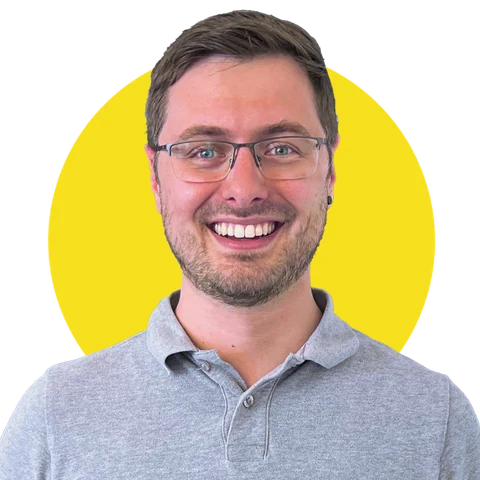
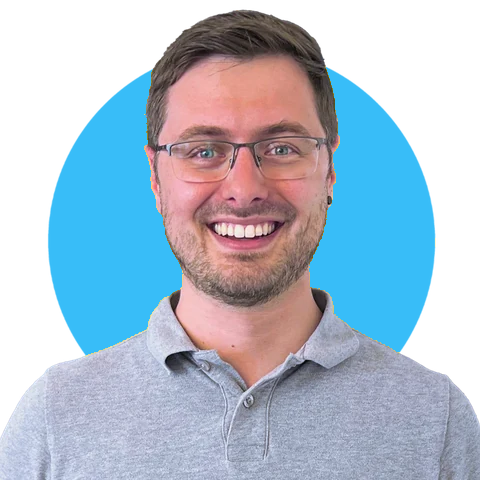
Replace yellow accent with blue across the site
Switch --color-accent from #F5C400 to the Digital/Brand secondary
blue (#38BDF8), recolor the avatar's circular backdrop to match, and
update STYLEGUIDE.md's "Applied on the website" section accordingly.

Claude-Session: https://claude.ai/code/session_011EiiaMf2K7Ezs9nBbS4To7

Changed region(s): [[0.0938, 0.125, 0.4062, 0.75], [0.625, 0.125, 0.9062, 0.75]]

diff --git a/styles.css b/styles.css
@@ -1,8 +1,9 @@
 /* Marcel Cremer — personal homepage
    Brand system: see STYLEGUIDE.md. The site deliberately uses the dark
-   "Presentation / Talk" palette (anthracite + yellow) rather than the
-   light Digital/Brand background — see the "Applied on the website" note
-   in the styleguide. */
+   anthracite background from the "Presentation / Talk" system, but with the
+   Digital/Brand "secondary" blue as its accent instead of the Talk system's
+   yellow, rather than the light Digital/Brand background — see the
+   "Applied on the website" note in the styleguide. */
 
 @font-face {
   font-family: "Montserrat";
@@ -32,7 +33,7 @@
   --color-primary:     #1A4D8F;
   --color-secondary:   #38BDF8;
   --color-secondary-2: #16A340;
-  --color-accent:      #F5C400;
+  --color-accent:      #38BDF8;
 
   --color-background: #222222;
   --color-surface:    #2A2A2A;
@@ -97,8 +98,9 @@ p {
   color: var(--color-text-muted);
 }
 
-/* Yellow "highlighter box" — same treatment as the title-slide keyword box
-   in the talk deck: solid accent fill, dark text. */
+/* Blue "highlighter box" — same treatment as the title-slide keyword box
+   in the talk deck, but with the accent recolored from yellow to blue:
+   solid accent fill, dark text. */
 
 .mark {
   background: var(--color-accent);
@@ -214,7 +216,7 @@ section {
   padding: 3rem 0;
 }
 
-/* Section headers: full-bleed yellow bar, left-aligned — same pattern as
+/* Section headers: full-bleed blue bar, left-aligned — same pattern as
    the talk deck's section-header slides. */
 
 section > h2 {

diff --git a/STYLEGUIDE.md b/STYLEGUIDE.md
@@ -40,23 +40,25 @@ Keynote), not for the site.
 ### Applied on the website
 
 The website is a deliberate crossover: it borrows the **dark anthracite
-palette from the Presentation / Talk system** (`#222222` background,
-`#F5C400` accent, white text) instead of the light Digital/Brand
-background, so the site feels like a continuation of the talk decks
-rather than a generic corporate homepage. Fixed dark theme — no light
+background from the Presentation / Talk system** (`#222222` background,
+white text) instead of the light Digital/Brand background, so the site
+feels like a continuation of the talk decks rather than a generic
+corporate homepage — but its accent is the Digital/Brand `secondary`
+blue rather than the Talk system's yellow. Fixed dark theme — no light
 mode toggle.
 
 - `background` (`#222222`) as the page canvas; a slightly lighter/darker
   anthracite (`#2A2A2A` / `#1B1B1B`) for cards and banded sections.
-- `accent` (yellow, `#F5C400`) used exactly as in the deck: solid-fill
-  "yellow box" treatment for the logo, hero eyebrow and highlighted
-  keywords, and full-bleed left-aligned bars for section headings —
-  the site's `h2`/`.page-title` styling mirrors the deck's
-  section-header slides. Text on an accent fill is dark, never yellow
-  text on dark background (contrast).
-- `secondary` (sky blue) and `secondary-2` (green) survive from the
-  Digital/Brand system as small badge fills to tell the three expertise
-  pillars (tech / business / capital) apart at a glance.
+- `accent` (blue, `#38BDF8`, same value as `secondary`) used the same
+  way the deck's yellow accent was: solid-fill "highlighter box"
+  treatment for the logo, hero eyebrow and highlighted keywords, and
+  full-bleed left-aligned bars for section headings — the site's
+  `h2`/`.page-title` styling mirrors the deck's section-header slides.
+  Text on an accent fill is dark, never white text on the fill
+  (contrast).
+- `secondary-2` (green) survives from the Digital/Brand system as a
+  small badge fill to tell the three expertise pillars (tech / business
+  / capital) apart at a glance.
 - `primary` (deep blue) is **not** used on the site — on the anthracite
   background it doesn't have enough contrast to read as text or UI
   color. It stays reserved for print/Canva/documents.
